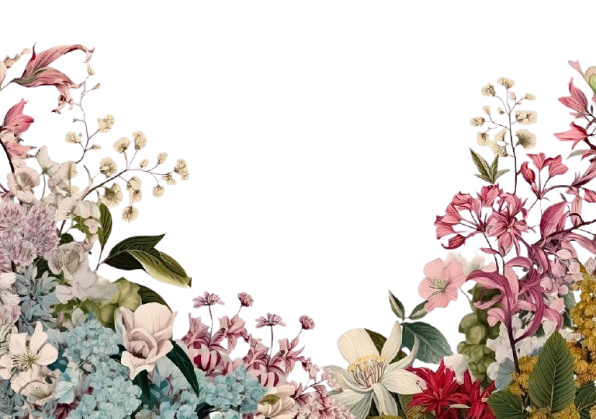
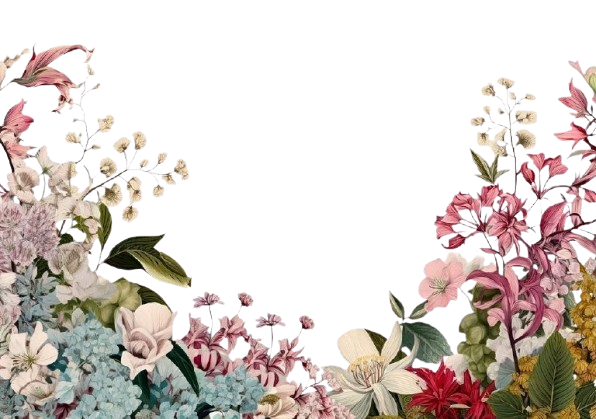
penambahan bunga bawah

diff --git a/resources/views/undangan.blade.php b/resources/views/undangan.blade.php
@@ -46,83 +46,82 @@
                 @include('sections.footer')
             </div>
 
+            <!-- bunga bawah FIXED -->
+            <div class="fixed bottom-0 left-0 w-full pointer-events-none z-50 flex justify-center">
+
+                <img src="/assets/images/bg/bunga-bawah.png"
+                    class="w-full max-w-[480px]">
+
+            </div>
+
         </div>
-        <!-- bunga bawah -->
-        <div class="absolute bottom-0 left-0 w-full pointer-events-none z-10">
 
-            <img src="/assets/images/bg-/bunga-bawah.jpeg"
-                class="w-full">
-
-        </div>
-
-    </div>
-
-    <!-- ========================= -->
-    <!-- COUNTDOWN SCRIPT -->
-    <!-- ========================= -->
-    <script>
-        const targetDate = new Date("2026-03-28T10:00:00+07:00").getTime();
+        <!-- ========================= -->
+        <!-- COUNTDOWN SCRIPT -->
+        <!-- ========================= -->
+        <script>
+            const targetDate = new Date("2026-03-28T10:00:00+07:00").getTime();
 
 
-        function updateCountdown() {
+            function updateCountdown() {
 
-            const now = new Date().getTime();
-            const distance = targetDate - now;
+                const now = new Date().getTime();
+                const distance = targetDate - now;
 
-            if (distance < 0) return;
+                if (distance < 0) return;
 
-            const days = Math.floor(distance / (1000 * 60 * 60 * 24));
-            const hours = Math.floor((distance % (1000 * 60 * 60 * 24)) / (1000 * 60 * 60));
-            const minutes = Math.floor((distance % (1000 * 60 * 60)) / (1000 * 60));
-            const seconds = Math.floor((distance % (1000 * 60)) / 1000);
+                const days = Math.floor(distance / (1000 * 60 * 60 * 24));
+                const hours = Math.floor((distance % (1000 * 60 * 60 * 24)) / (1000 * 60 * 60));
+                const minutes = Math.floor((distance % (1000 * 60 * 60)) / (1000 * 60));
+                const seconds = Math.floor((distance % (1000 * 60)) / 1000);
 
-            const d = document.getElementById("cd_days");
-            const h = document.getElementById("cd_hours");
-            const m = document.getElementById("cd_minutes");
-            const s = document.getElementById("cd_seconds");
+                const d = document.getElementById("cd_days");
+                const h = document.getElementById("cd_hours");
+                const m = document.getElementById("cd_minutes");
+                const s = document.getElementById("cd_seconds");
 
-            if (d) d.innerHTML = days;
-            if (h) h.innerHTML = hours;
-            if (m) m.innerHTML = minutes;
-            if (s) s.innerHTML = seconds;
+                if (d) d.innerHTML = days;
+                if (h) h.innerHTML = hours;
+                if (m) m.innerHTML = minutes;
+                if (s) s.innerHTML = seconds;
 
-        }
+            }
 
-        setInterval(updateCountdown, 1000);
-        updateCountdown();
+            setInterval(updateCountdown, 1000);
+            updateCountdown();
 
 
-        function addToCalendar() {
+            function addToCalendar() {
 
-            const title = "Wedding Alya & Anas";
-            const location = "Lokasi Pernikahan";
-            const details = "Undangan Pernikahan Alya & Anas";
+                const title = "Wedding Alya & Anas";
+                const location = "Lokasi Pernikahan";
+                const details = "Undangan Pernikahan Alya & Anas";
 
-            const start = "20260328T020000Z";
-            const end = "20260328T060000Z";
+                const start = "20260328T020000Z";
+                const end = "20260328T060000Z";
 
-            const url =
-                "https://www.google.com/calendar/render?action=TEMPLATE" +
-                "&text=" + encodeURIComponent(title) +
-                "&dates=" + start + "/" + end +
-                "&details=" + encodeURIComponent(details) +
-                "&location=" + encodeURIComponent(location);
+                const url =
+                    "https://www.google.com/calendar/render?action=TEMPLATE" +
+                    "&text=" + encodeURIComponent(title) +
+                    "&dates=" + start + "/" + end +
+                    "&details=" + encodeURIComponent(details) +
+                    "&location=" + encodeURIComponent(location);
 
-            window.open(url, "_blank");
+                window.open(url, "_blank");
 
-        }
-    </script>
+            }
+        </script>
 
-    <script>
-        function copyRekening(id) {
+        <script>
+            function copyRekening(id) {
 
-            const text = document.getElementById(id).innerText.replace(/\s/g, '');
-            navigator.clipboard.writeText(text);
+                const text = document.getElementById(id).innerText.replace(/\s/g, '');
+                navigator.clipboard.writeText(text);
 
-            alert("Nomor rekening berhasil disalin");
+                alert("Nomor rekening berhasil disalin");
 
-        }
-    </script>
+            }
+        </script>
 
 
 

diff --git a/resources/views/sections/wedding-gift.blade.php b/resources/views/sections/wedding-gift.blade.php
@@ -149,7 +149,7 @@
                 <div class="absolute inset-0 bg-white/60 backdrop-blur-[2px]"></div>
 
                 <img src="/assets/images/icon/bca.png"
-                    class="absolute top-4 right-4 h-8 z-10">
+                    class="absolute top-3 right-4 h-13 z-10">
 
                 <img src="/assets/images/icon/chip-atm.jpg"
                     class="absolute top-[55px] left-5 w-9 z-10">
